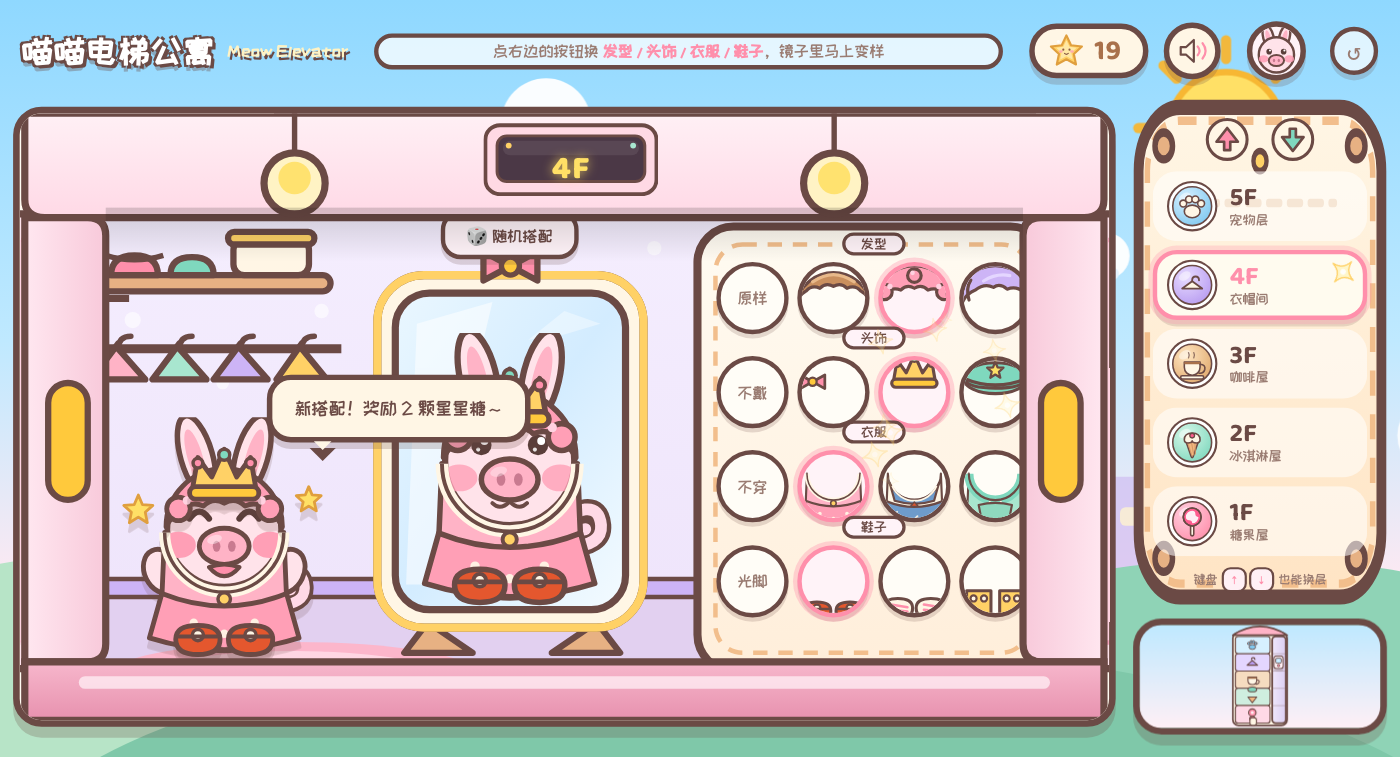
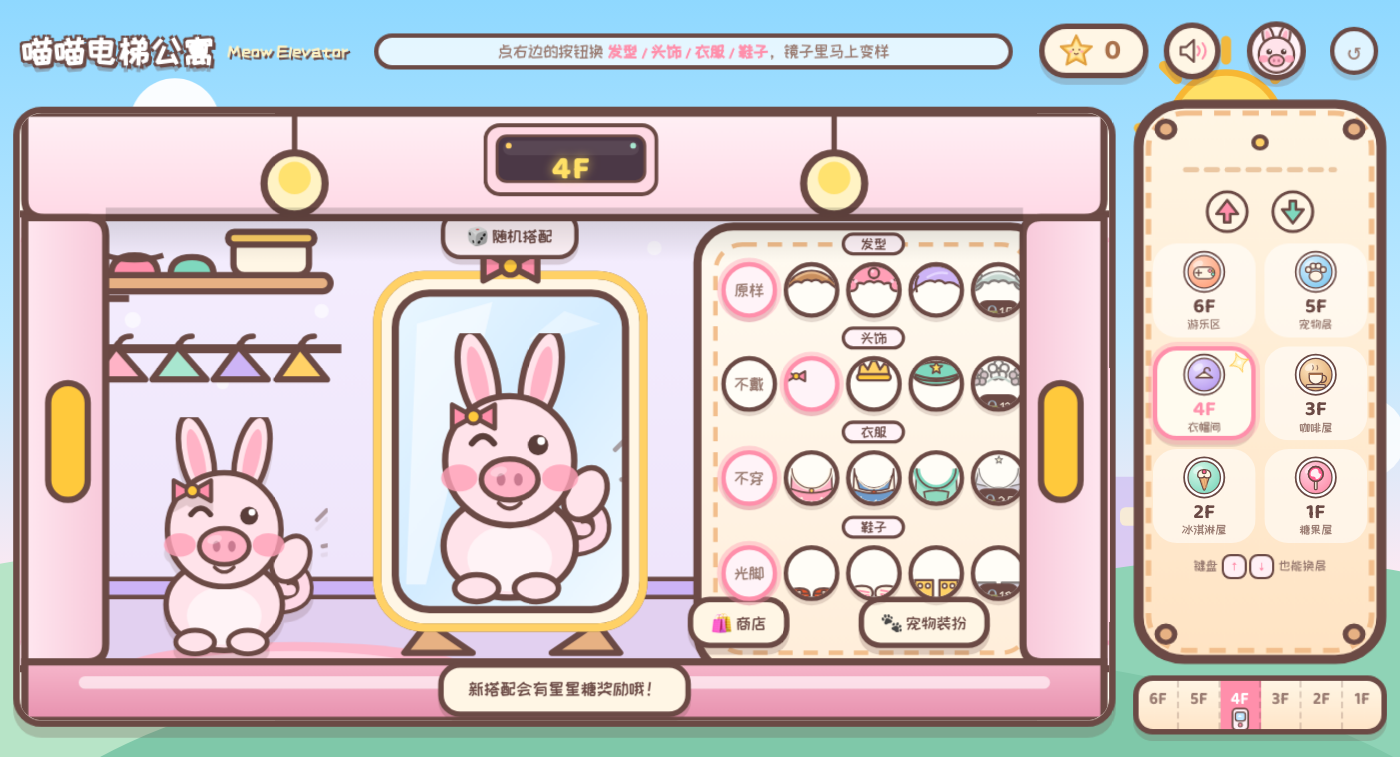
修 4F 换装道具被挡住：每行按数量自动缩放（安全宽度 280px）；手机零食热区撑到 42px；猫猫改到共用骨架可直接换装

diff --git a/js/floors/closet.js b/js/floors/closet.js
@@ -18,7 +18,21 @@
     row.appendChild(label);
 
     var list = EG.util.el('div', 'fit__list');
-    (C.closet.items[cat.key] || []).forEach(function (item) {
+    var items = C.closet.items[cat.key] || [];
+
+    /* 一行能用的安全宽度是 280px（房间里的选项板内框到 790±140 左右，
+       再往右 932px 开始就是电梯右侧柱子，会被挡住）：
+       道具多了就自动把圆按钮改小，保证每一件都完整看得见。
+       触屏上 mobile.css 会把按钮再放大 1.1 倍，所以这里先除回去。 */
+    var SAFE = 280;
+    var BOOST = (window.matchMedia && window.matchMedia('(pointer: coarse)').matches) ? 1.1 : 1;
+    var gap = items.length > 4 ? 6 : 8;
+    var size = Math.floor((SAFE - (items.length - 1) * gap) / items.length / BOOST);
+    size = Math.max(36, Math.min(66, size));
+    list.style.gap = gap + 'px';
+    list.style.setProperty('--garment-size', size + 'px');
+
+    items.forEach(function (item) {
       var btn = EG.util.el('button', 'garment garment--' + cat.key);
       btn.type = 'button';
       btn.dataset.slot = cat.key;

diff --git a/styles/mobile.css b/styles/mobile.css
@@ -54,9 +54,21 @@ body {
   /* 各楼层里的小按钮也放大一点，保证手指点得中 */
   .pick__btn { width: 96px; height: 96px; }
   .pick__label { font-size: 14px; }
-  .garment { width: 80px; height: 80px; }
+  /* 倍数要和 js/floors/closet.js 里的 BOOST 保持一致（那边会先除回去） */
+  .fit__list .garment {
+    width: calc(var(--garment-size, 66px) * 1.1);
+    height: calc(var(--garment-size, 66px) * 1.1);
+  }
   .fit__list { gap: 10px; }
-  .food { width: 78px; }
+  /* 零食图很扁（小鱼干），光靠宽度热区不够高：
+     把容器做高、图片仍然贴着原来那条底线（place-items: end），多出来的高度全变成热区 */
+  .food {
+    width: 78px;
+    height: 74px;
+    display: grid;
+    place-items: end center;
+  }
+  .food img { width: 100%; }
   .food__label { font-size: 12px; }
   .brew { width: 168px; height: 168px; }
   .gauge { width: 60px; }

diff --git a/styles/floors.css b/styles/floors.css
@@ -408,8 +408,7 @@
 .wear--hair     { z-index: 3; }
 .wear--headwear { z-index: 4; }
 
-/* 猫猫穿不了猪猪兔的衣服：舞台上的主角和镜子里的预览都隐藏 */
-body.skin-cat .wear { display: none !important; }
+/* 四位主角现在共用同一套 300×350 骨架，所以谁都能穿衣服，不用再隐藏图层了 */
 
 /* ---------- 穿衣镜里的预览 ---------- */
 .mirror {
@@ -473,7 +472,16 @@ body.skin-cat .wear { display: none !important; }
   white-space: nowrap;
 }
 
-.fit__list { display: flex; gap: 8px; }
+.fit__list {
+  display: flex;
+  gap: 8px;
+  /* 每件的大小由 JS 按数量算好（保证一行塞得进房间里的选项板，不会被右边柱子挡住） */
+}
+
+.fit__list .garment {
+  width: var(--garment-size, 66px);
+  height: var(--garment-size, 66px);
+}
 
 /* 每个选项按钮：把对应图层的那个部位放大取景 */
 .garment {

diff --git a/js/core/outfit.js b/js/core/outfit.js
@@ -119,12 +119,7 @@
         var on = (self.data[btn.dataset.slot] || '') === (btn.dataset.item || '');
         btn.classList.toggle('is-active', on);
       });
-      /* 猫猫穿不了猪猪兔的衣服：舞台上的图层用 CSS 隐藏，镜子里的预览照常显示 */
-      var isCat = !!(EG.Say && EG.Say.skin && EG.Say.skin() === 'cat');
-      document.body.classList.toggle('skin-cat', isCat);
-      if (isCat && opts && opts.notify) {
-        EG.Say.show('这身衣服是猪猪兔的～点头像换回猪猪兔就能穿上啦', 2600);
-      }
+      /* 四位主角共用同一套骨架，衣服谁都能穿（以前猫猫会隐藏图层，现在不用了） */
     },
 
     /* 给调试/说明用 */

diff --git a/README.md b/README.md
@@ -248,9 +248,12 @@ node tools/mobile-check.mjs
   全部共用 300×350 画布，所以换表情也不会错位；猫猫咪咪没有对应部件，所以穿衣服时会看不到（镜子里照常显示）。
 - **5F 宠物**同理：每只宠物一对图（待机 / 开心），点一下临时换成开心表情，好感度和等级存在存档里，
   每只最高 2 级（★ 好朋友 → ★★ 最好朋友）。
-- **四位主角共用同一套 300×350 骨架**（小兔子和小马就是照猪猪兔的骨架画的，只改五官和毛色），
-  所以 4F 的换装图层、商店买来的衣服，四个人都能穿；只有猫猫咪咪的体型不一样，
-  穿衣服时会自动隐藏（镜子里照常显示）。
+- **四位主角共用同一套 300×350 骨架**（小兔子、小马、猫猫咪咪都是照猪猪兔的骨架画的，只改五官和毛色），
+  所以 4F 的换装图层、商店买来的衣服，**四个人都能穿**、舞台和镜子里都会同步。
+  （早期版本猫猫是另一套体型、衣服图层被整层隐藏，换装看不到变化，现在已经统一了。）
+- **4F 换装的每一行会按道具数量自动缩放**：房间选项板内框到右侧电梯柱子之间只有约 280px 可用，
+  道具多了圆按钮就自动变小（`js/floors/closet.js` 里按数量算，触屏的放大倍数也会一起算进去），
+  所以每行放 5 个、6 个都完整看得见，不会被柱子挡掉一半。
 - **4F 商店是「配置驱动」的**：`config.closet.items` / `config.petwear.items` 里凡是写了 `price` 的条目，
   会自动出现在商店里（不写 `price` 就是免费的默认款）；买过的记在存档 `owned` 里，
   换装面板和宠物装扮面板里没买的会显示 🔒 + 价格，点第一次问价、点第二次才扣钱。
